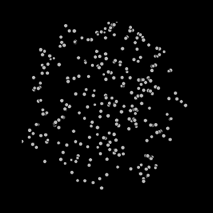
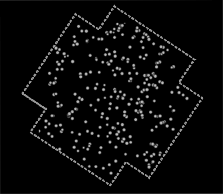
Darker look for better waterfall contrast; UI tweaks.

diff --git a/app/assets/stylesheets/main.sass b/app/assets/stylesheets/main.sass
@@ -345,12 +345,13 @@ input[type=text], input[type=password]
   height: 200px
 
 #star_field_small
-  width: 212px
-  height: 212px
+  width: 218px
+  height: 190px
   margin: 0 0 0
-  padding: 2px
-  background: url('static_starfield.png') center #000000
-  border: 1px solid #666
+  padding: 0px
+  background: url('static_starfield.png') black
+  border: 1px solid #394552
+  background-repeat: no-repeat
 
 #content
   margin: 0 -5px
@@ -448,8 +449,8 @@ input[type=text], input[type=password]
 
 .waterfall
   padding: 0
-  border: 3px solid #dfdfdf
-  @include box-shadows((0 2px 5px rgba(0,0,0,0.2)))
+  border: 2px solid #394552
+  @include box-shadows((0px 2px 8px rgba(0, 0, 0, .5)))
   @include round-corners(3px)
 
 #waterfall-0
@@ -550,7 +551,7 @@ input[type=text], input[type=password]
 
 #countdown #time
   width: 214px
-  height: 50px
+  height: 43px
   margin: 0px
   background: #121212
   background: -moz-linear-gradient(top,  #121212 0%, #1b1b1b 50%, #121212 51%, #1b1b1b 100%)
@@ -560,7 +561,7 @@ input[type=text], input[type=password]
   background: -ms-linear-gradient(top,  #121212 0%,#1b1b1b 50%,#121212 51%,#1b1b1b 100%)
   background: linear-gradient(to bottom,  #121212 0%,#1b1b1b 50%,#121212 51%,#1b1b1b 100%)
   filter: progid:DXImageTransform.Microsoft.gradient( startColorstr='#121212', endColorstr='#1b1b1b',GradientType=0 )
-  border: 3px #dfdfdf solid
+  border: 3px #394552 solid
   @include box-shadows((0 2px 4px rgba(0,0,0,0.2)))
   color: #cddc28
   font-family: TitilliumText22LThin, Sans-serif
@@ -569,8 +570,9 @@ input[type=text], input[type=password]
   line-height: 42pt
   @include round-corners(3px)
   &.text
-    font-size: 20pt
-    line-height: 40pt
+    font-size: 16pt
+    line-height: 32pt
+    padding-top: 5px
 
 p.title
   font-weight: normal
@@ -671,26 +673,24 @@ $workflow-font-size: 12pt
   padding: 0px
 
   @include unselectable
-  background-color: #cddc28
-  border: 1px solid #12161b
+  background-color: #185378
+  border: 1px solid #12161B
   @include box-shadows((inset 0px 1px #f4ff7e, 0 2px 4px rgba(0, 0, 0, 0.1)))
   color: white
   cursor: pointer
-  font-size: 15px
-  font-weight: 700
+  font-size: 14px
+  font-weight: 500
   line-height: 30px
   @include round-corners(2px)
+  border-radius: 3px
   text-align: center
-  text-shadow: #98a50d 0 1px 0
+  text-shadow: #13171C 0 1px 0
   vertical-align: bottom
-  @include gradient-bg(#ECF96B, #90991F)
-  &:hover
-    background-color: #90991F
 
 #extra_controlls
   width: 100%
   height: 100px
-  margin-top: 6px
+  margin-top: 42px
 
   .social
 
@@ -727,7 +727,7 @@ $workflow-font-size: 12pt
 #social 
   width: 220px
   height: 33px
-  padding-top: 7px
+  padding-top: 0px
 
   #twitter_button
     background-image: url('/assets/twitter_small.png')
@@ -769,7 +769,8 @@ $workflow-font-size: 12pt
   height: 76px
 
 .selected_beam
-  border: 3px solid #CDDC28
+  #border: 3px solid #CDDC28
+  border: 1px solid #CDDC28
 
 
 
@@ -1327,15 +1328,15 @@ ul.pagination
   height: 60px
   margin: 0 auto 20px
   padding: 0px
-  border: 1px solid #cddc28
-  @include round-corners(4px)
+  border: 1px solid #6D8196
+  @include round-corners(3px)
   list-style: none
 
   li
     position: relative
     height: 29px
     padding: 17px 0 12px 0
-    color: #cddc28
+    color: #6D8196
     font-size: 28px
     line-height: 28px
     text-align: center
@@ -1516,28 +1517,29 @@ ul.pagination
   position: absolute
   top: 0px
   right: 0px
-
-  color: #ccc
-  font-size: 13px
+  color: #A8BCD1
+  font-size: 12px
+  text-shadow: 0px 1px 0px black
 
   .info-container
     position: relative
 
   section[data-area="actions"]
     position: absolute
-    top: 420px
+    top: 396px
 
   .social
 
   .talk_prompt
-    margin: 0
+    margin-top: 0px
     padding: 4px 0px
     text-align: center
 
   #current_targets
-    width: 100%
-    height: 76px
+    width: 97%
+    height: 68px
     margin-top: 5px
+    padding: 3px
     border: 1px solid #666
     ul
       li
